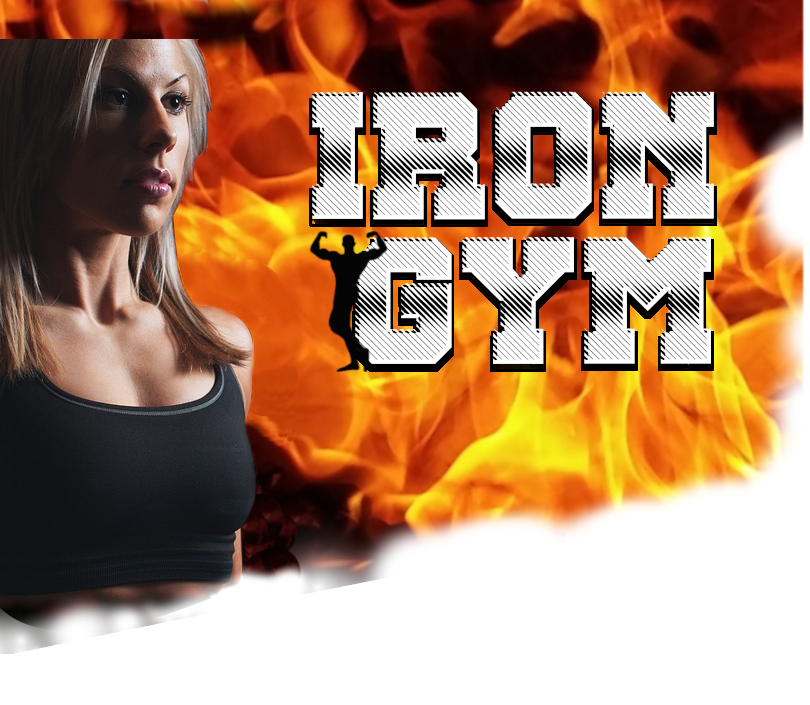
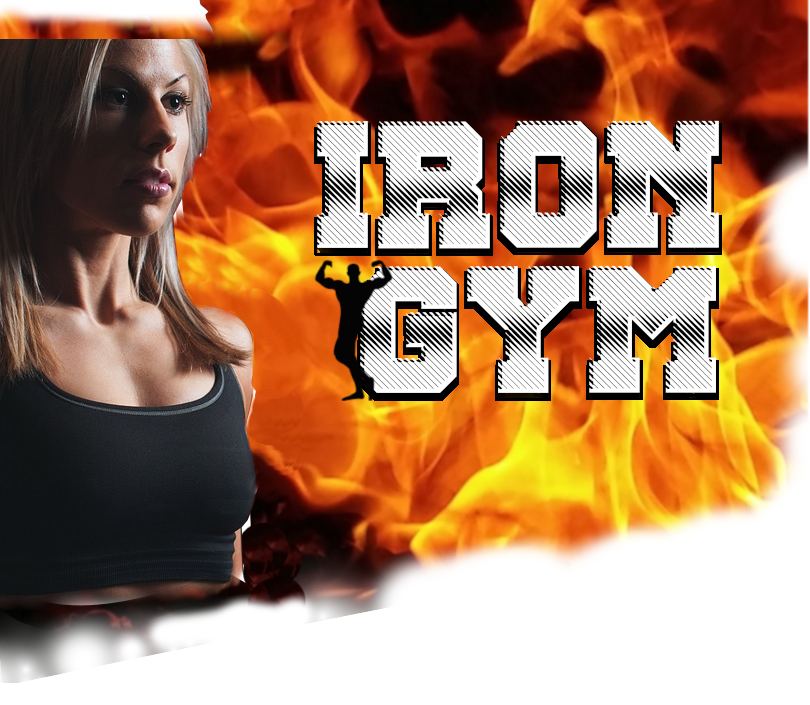
ggg

diff --git a/app/temp/styles/styles.css b/app/temp/styles/styles.css
@@ -411,20 +411,20 @@ a {
 
 .btn__banner {
     padding: 13px 23px;
-    font-size: 1.1em;
+    font-size: 1em;
   }
 
-@media(min-width: 768px) {
+@media(min-width: 770px) {
 
 .btn__banner {
-      padding: 11px 21px
+      padding: 11px 21px;
+      font-size: .9em
   }
   }
 
 @media(min-width: 875px) {
 
 .btn__banner {
-      font-size: 1.25em;
       padding: 13px 23px
   }
   }
@@ -499,7 +499,7 @@ a {
   display: flex;
   justify-content: space-between;
   align-items: center;
-  font-size: 1.25rem;
+  font-size: 1.2rem;
 }
 
 .main-nav ul {
@@ -508,61 +508,57 @@ a {
     padding: 0;
   }
 
-@media(min-width: 768px) {
+@media(min-width: 530px) {
 
 .main-nav ul {
-      margin: 0 0 0 35%;
-      font-size: 1.28rem
+      margin: 0 0 0 32%
+  }
+  }
+
+@media(min-width: 770px) {
+
+.main-nav ul {
+      margin: 0 0 0 40%
   }
   }
 
 @media(min-width: 875px) {
 
 .main-nav ul {
-      margin: 0 0 0 43%;
-      font-size: 1.30rem
+      margin: 0 0 0 42%;
+      font-size: 1.3rem
   }
   }
 
 @media(min-width: 1080px) {
 
 .main-nav ul {
-      margin: 0 0 0 52%;
+      margin: 0 0 0 50%;
       font-size: 1.35rem
   }
   }
 
-.main-nav li {
-    display: inline-block;
-    margin: 0 5px;
-    /* padding-right: 15px; */
+@media(min-width: 530px) {
+
+.main-nav ul>li {
+        display: inline-block
+    }
   }
 
 .main-nav a {
+    /* background-color: yellow; */
     position: relative;
     display: inline-block;
-    padding: 8px 13px 8px 0px;
+    padding: 1em 1em 1em 0;
   }
 
-@media(min-width: 768px) {
-
-.main-nav a {
-      padding: 14px 13px 14px 0px
-  }
+@media(min-width: 770px) {
   }
 
 @media(min-width: 875px) {
-
-.main-nav a {
-      padding: 16px 13px 16px 0px
-  }
   }
 
 @media(min-width: 1080px) {
-
-.main-nav a {
-      padding: 18px 15px 18px 0px
-  }
   }
 
 .main-nav a:after {
@@ -620,7 +616,7 @@ a {
               transform: scale(.9) translateY(-31%);
     }
 
-@media(min-width: 768px) {
+@media(min-width: 770px) {
 
 .main-nav__logo {
       max-width: 4.5em
@@ -661,7 +657,7 @@ a {
     z-index: -1;
   }
 
-@media(min-width: 768px) {
+@media(min-width: 770px) {
   }
 
 .banner__subtitle {
@@ -671,15 +667,16 @@ a {
     text-shadow: 2px 2px 0 #FFF, -1px -1px 0 #FFF, 1px -1px 0 #FFF, -1px 2px 4px #FFF, 1px 4px 4px #000;
   }
 
-@media(min-width: 768px) {
+@media(min-width: 770px) {
 
 .banner__subtitle--on-the-right {
-        letter-spacing: 2.5px;
+        letter-spacing: 3px;
         float: right;
         margin-top: -25.5%;
         margin-right: 6.5%;
         font-weight: 500;
-        font-size: 1.47em
+        font-size: 1.4em;
+        min-width: 20%
     }
   }
 
@@ -690,8 +687,7 @@ a {
         float: right;
         margin-top: -25.5%;
         margin-right: 6.5%;
-        font-weight: 600;
-        font-size: 1.63em
+        font-weight: 600
     }
   }
 
@@ -769,13 +765,13 @@ a {
       box-shadow: 0px 1px 2px 0px #FFF;
     }
 
-@media(min-width: 768px) {
+@media(min-width: 770px) {
 
 .banner__btn-container {
       border-radius: 30px;
       position: absolute;
-      left: 76%;
-      bottom: 14%;
+      left: 75%;
+      bottom: 16%;
       -webkit-transform: translate(-50%, -50%);
               transform: translate(-50%, -50%);
       box-shadow: 0px 3px 5px 1px #FFF
@@ -792,6 +788,13 @@ a {
       -webkit-transform: translate(-50%, -50%);
               transform: translate(-50%, -50%);
       box-shadow: 0px 3px 5px 1px #FFF
+  }
+  }
+
+@media(min-width: 1080px) {
+
+.banner__btn-container {
+      bottom: 12%
   }
   }
 
@@ -882,7 +885,7 @@ a {
 
 /* transform: translate(0, -100%); */
 
-@media(min-width: 768px) {
+@media(min-width: 770px) {
 
 .form>div {
       display: inline-block;
@@ -946,7 +949,7 @@ a {
     max-width: 100%;
   }
 
-@media(min-width: 768px) {
+@media(min-width: 770px) {
     .row__medium_3 {
       float: left;
       width: 25%;

diff --git a/app/assets/styles/modules/_main-nav.css b/app/assets/styles/modules/_main-nav.css
@@ -5,42 +5,39 @@
   display: flex;
   justify-content: space-between;
   align-items: center;
-  font-size: 1.25rem;
+  font-size: 1.2rem;
   ul {
     margin: 0 0 0 25%;
     height: inherit;
     padding: 0;
+    @mixin atSmall {
+      margin: 0 0 0 32%;
+    }
     @mixin atMedium {
-      margin: 0 0 0 35%;
-      font-size: 1.28rem;
+      margin: 0 0 0 40%;
     }
     @mixin atMediumXL {
-      margin: 0 0 0 43%;
-      font-size: 1.30rem;
+      margin: 0 0 0 42%;
+      font-size: 1.3rem;
     }
     @mixin atLarge {
-      margin: 0 0 0 52%;
+      margin: 0 0 0 50%;
       font-size: 1.35rem;
     }
-  }
-  li {
-    display: inline-block;
-    margin: 0 5px;
-    /* padding-right: 15px; */
+    &>li {
+      @mixin atSmall {
+        display: inline-block;
+      }
+    }
   }
   a {
+    /* background-color: yellow; */
     position: relative;
     display: inline-block;
-    padding: 8px 13px 8px 0px;
-    @mixin atMedium {
-      padding: 14px 13px 14px 0px;
-    }
-    @mixin atMediumXL {
-      padding: 16px 13px 16px 0px;
-    }
-    @mixin atLarge {
-      padding: 18px 15px 18px 0px;
-    }
+    padding: 1em 1em 1em 0;
+    @mixin atMedium {}
+    @mixin atMediumXL {}
+    @mixin atLarge {}
     &:after {
       position: absolute;
       content: "";

diff --git a/app/assets/styles/modules/_banner.css b/app/assets/styles/modules/_banner.css
@@ -17,12 +17,13 @@
     text-shadow: 2px 2px 0 #FFF, -1px -1px 0 #FFF, 1px -1px 0 #FFF, -1px 2px 4px #FFF, 1px 4px 4px #000;
     &--on-the-right {
       @mixin atMedium {
-        letter-spacing: 2.5px;
+        letter-spacing: 3px;
         float: right;
         margin-top: -25.5%;
         margin-right: 6.5%;
         font-weight: 500;
-        font-size: 1.47em;
+        font-size: 1.4em;
+        min-width: 20%;
       }
       @mixin atMediumXL {
         letter-spacing: 2px;
@@ -30,7 +31,6 @@
         margin-top: -25.5%;
         margin-right: 6.5%;
         font-weight: 600;
-        font-size: 1.63em;
       }
       @mixin atLarge {
         font-size: 1.8em;
@@ -93,8 +93,8 @@
     @mixin atMedium {
       border-radius: 30px;
       position: absolute;
-      left: 76%;
-      bottom: 14%;
+      left: 75%;
+      bottom: 16%;
       transform: translate(-50%, -50%);
       box-shadow: 0px 3px 5px 1px #FFF;
     }
@@ -105,6 +105,9 @@
       bottom: 14%;
       transform: translate(-50%, -50%);
       box-shadow: 0px 3px 5px 1px #FFF;
+    }
+    @mixin atLarge {
+      bottom: 12%;
     }
   }
 }

diff --git a/app/assets/styles/modules/_btn.css b/app/assets/styles/modules/_btn.css
@@ -19,12 +19,12 @@
   }
   &__banner {
     padding: 13px 23px;
-    font-size: 1.1em;
+    font-size: 1em;
     @mixin atMedium {
       padding: 11px 21px;
+      font-size: .9em;
     }
     @mixin atMediumXL {
-      font-size: 1.25em;
       padding: 13px 23px;
     }
     @mixin atLarge {

diff --git a/app/assets/styles/base/_mixins.css b/app/assets/styles/base/_mixins.css
@@ -5,7 +5,7 @@
 }
 
 @define-mixin atMedium {
-  @media(min-width: 768px) {
+  @media(min-width: 770px) {
     @mixin-content;
   }
 }
